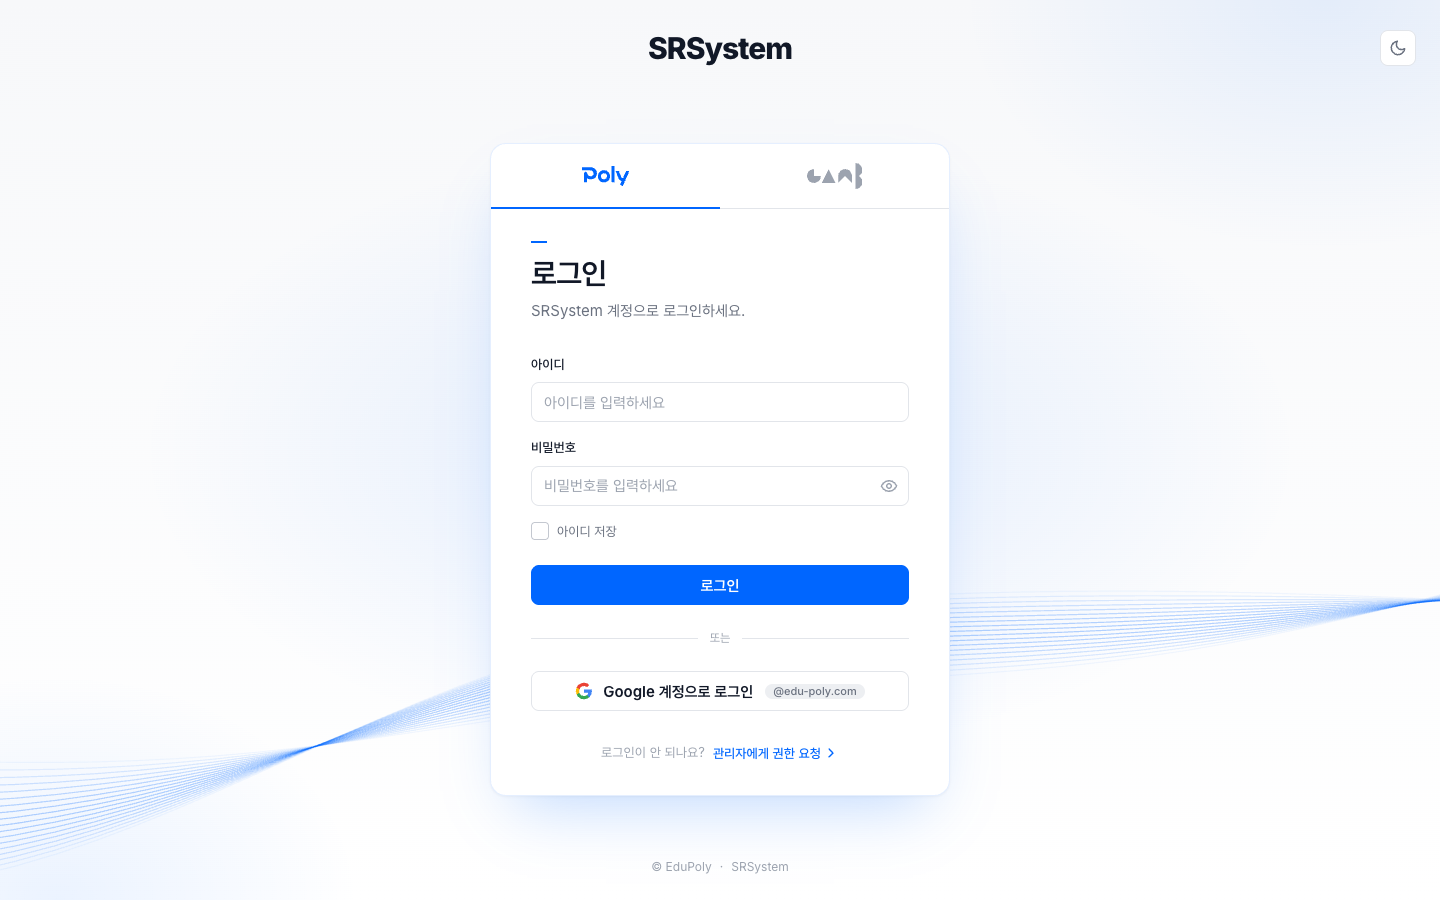
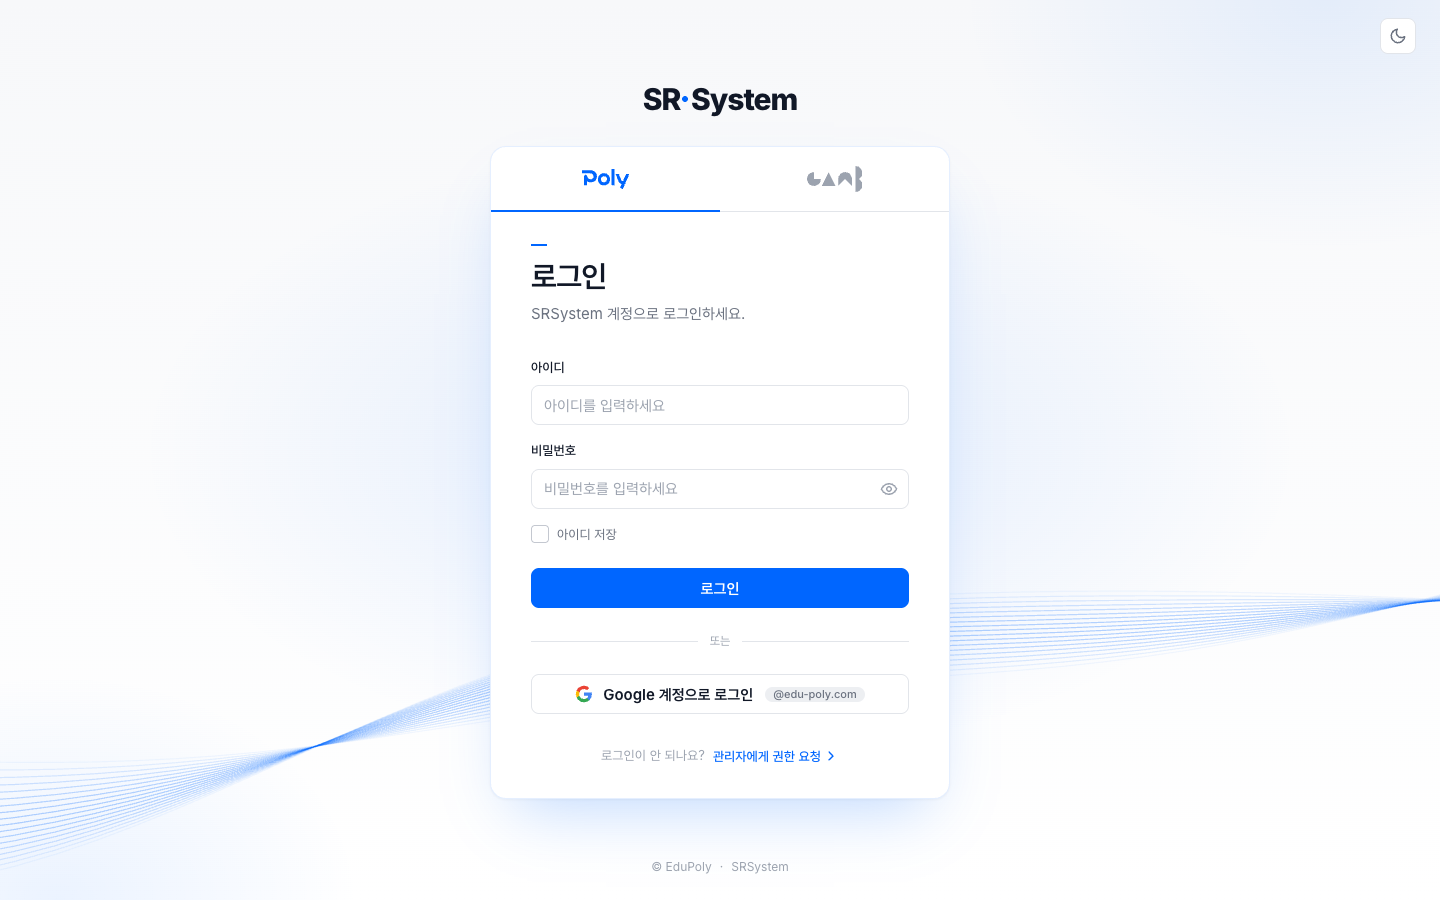
B안: SR·System 워드마크를 카드 바로 위로(간격 32px), SR 뒤 가운뎃점(브랜드 컬러)

diff --git a/srsystem/login-b.html b/srsystem/login-b.html
@@ -34,14 +34,27 @@
     }
     .b-waves path { fill: none; stroke: var(--color-primary); stroke-width: 1.2; vector-effect: non-scaling-stroke; transition: stroke .6s ease; }
 
-    .b-page { position: relative; z-index: 1; min-height: 100vh; min-height: 100dvh; display: grid; grid-template-rows: auto 1fr auto; }
-    /* 헤더: 브랜드 로고 없이 SRSystem 워드마크만 가운데 (Inter 800, 좁은 자간으로 로고처럼) */
-    .b-top { display: grid; grid-template-columns: 1fr auto 1fr; align-items: center; height: 96px; padding: 0 var(--space-6); }
-    .b-top .product { grid-column: 2; }
-    .b-top .icon-btn { grid-column: 3; justify-self: end; }
-    .b-top .product-name { font-size: 30px; font-weight: 800; letter-spacing: -0.035em; line-height: 1; }
+    .b-page { position: relative; z-index: 1; min-height: 100vh; min-height: 100dvh; display: grid; grid-template-rows: 1fr auto; }
+    /* 테마 토글만 우측 상단에 띄움 */
+    .b-top { position: absolute; top: 0; right: 0; z-index: 2; display: flex; align-items: center; height: 72px; padding: 0 var(--space-6); }
 
-    .b-main { display: grid; grid-template-columns: minmax(0, 460px); justify-content: center; align-items: center; padding: var(--space-6) var(--space-6) var(--space-10); }
+    /* SR·System 워드마크(Inter 800) + 로그인 카드를 한 묶음으로 세로 가운데, 사이 간격 32px */
+    .b-main {
+      display: grid; grid-template-columns: minmax(0, 460px);
+      justify-content: center; align-content: center; justify-items: center;
+      row-gap: var(--space-8);
+      padding: var(--space-16) var(--space-6) var(--space-10);
+    }
+    .b-mark .product-name { font-size: 30px; font-weight: 800; letter-spacing: -0.035em; line-height: 1; }
+    .wm-dot {
+      display: inline-block;
+      width: .2em; height: .2em;
+      margin: 0 .1em 0 .06em;
+      border-radius: 50%;
+      background: var(--color-primary);
+      vertical-align: .25em;
+      transition: background-color .45s ease;
+    }
     .b-card {
       --b-card-line: var(--color-primary-a10);
       --b-card-glow: var(--color-primary-a25);
@@ -71,9 +84,9 @@
     [data-theme="dark"] .b-card { background: var(--color-bg-subtle); border-color: var(--color-border); box-shadow: 0 32px 80px -24px rgba(0,0,0,0.7); }
 
     @media (max-width: 640px) {
-      .b-top { height: 72px; padding: 0 var(--space-3); }
-      .b-top .product-name { font-size: 24px; }
-      .b-main { padding: var(--space-2) var(--space-4) var(--space-8); align-items: start; grid-template-columns: minmax(0, 1fr); }
+      .b-top { height: 64px; padding: 0 var(--space-3); }
+      .b-main { padding: var(--space-5) var(--space-4) var(--space-8); align-content: start; row-gap: var(--space-5); grid-template-columns: minmax(0, 1fr); }
+      .b-mark .product-name { font-size: 24px; }
       .b-card-body { padding: var(--space-6); }
     }
   </style>
@@ -85,12 +98,12 @@
 
   <div class="b-page">
     <header class="b-top">
-      <a class="product" href="#" aria-label="SRSystem 홈">
-        <span class="product-name">SRSystem</span>
-      </a>
       <button type="button" class="icon-btn" id="theme-toggle" aria-label="다크 모드로 전환"></button>
     </header>
     <main class="b-main">
+      <a class="product b-mark" href="#" aria-label="SRSystem 홈">
+        <span class="product-name">SR<span class="wm-dot" aria-hidden="true"></span>System</span>
+      </a>
       <section class="b-card" aria-label="로그인">
         <div class="brand-tabs" role="tablist" aria-label="브랜드 선택">
           <button type="button" class="brand-tab" role="tab" id="brandTabPoly" data-brand-tab="poly" aria-controls="brandPanel" aria-selected="true" aria-label="POLY"><svg class="tab-logo-poly" aria-hidden="true"><use href="#poly-wordmark"/></svg></button>
